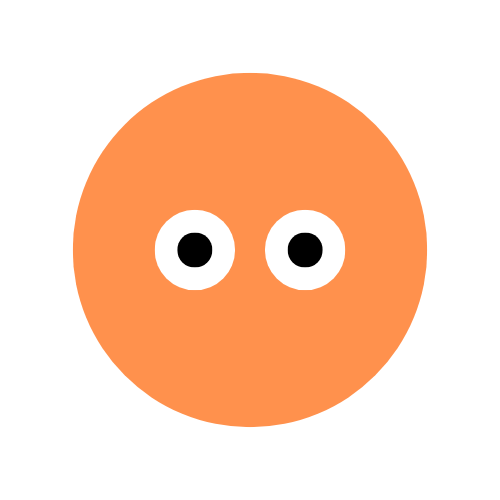
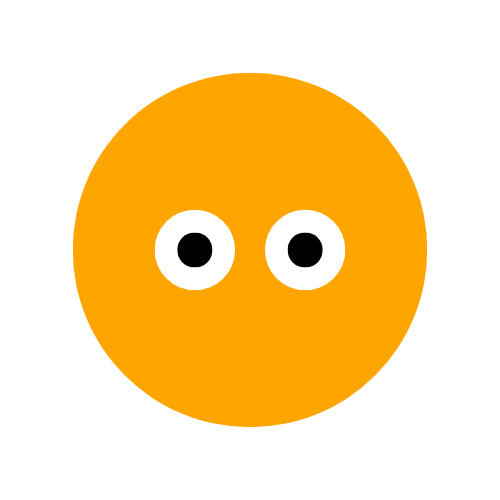
h

diff --git a/app/(app)/profile/[user].jsx b/app/(app)/profile/[user].jsx
@@ -22,16 +22,17 @@ export default function Profile() {
       <Stack.Screen
         options={{
           title: `${local.user}`,
-          headerShadowVisible: false,
+          headerShadowVisible: true,
           headerRight: () => (
             <AnimatedButton
               style={{
-                height: 40,
+                // marginRight: -12,
+                height: 55,
                 width: 40,
                 borderRadius: 10,
                 justifyContent: "center",
                 alignItems: "center",
-                shadowColor: "#000",
+                // backgroundColor: "red",
               }}
               text="Settings"
               onPress={() => {
@@ -49,7 +50,8 @@ export default function Profile() {
             <View style={styles.profileAvatarWrapper}>
               <Image
                 alt=""
-                source={{ uri: "https://picsum.photos/id/664/1920/1080" }}
+                // source={{ uri: "https://picsum.photos/id/664/1920/1080" }}
+                source={require("../../../assets/hi.png")}
                 style={styles.profileAvatar}
               />
             </View>
@@ -70,7 +72,13 @@ export default function Profile() {
             style={styles.row}
           >
             <View style={[styles.rowIcon, { backgroundColor: "#007afe" }]}>
-              <FeatherIcon color="#fff" name="user" size={20} />
+              {/* <FeatherIcon color="#fff" name="user" size={20} /> */}
+              <Image
+                alt=""
+                // source={{ uri: "https://picsum.photos/id/664/1920/1080" }}
+                source={require("../../../assets/2.png")}
+                style={{ height: 50, width: 50 }}
+              />
             </View>
             <Text style={styles.rowLabel}>Username</Text>
             <View style={styles.rowSpacer} />
@@ -83,7 +91,13 @@ export default function Profile() {
             style={styles.row}
           >
             <View style={[styles.rowIcon, { backgroundColor: "#fe9400" }]}>
-              <FeatherIcon color="#fff" name="mail" size={20} />
+              {/* <FeatherIcon color="#fff" name="mail" size={20} /> */}
+              <Image
+                alt=""
+                // source={{ uri: "https://picsum.photos/id/664/1920/1080" }}
+                source={require("../../../assets/hi.png")}
+                style={{ height: 50, width: 50 }}
+              />
             </View>
             <Text style={styles.rowLabel}>Email</Text>
             <View style={styles.rowSpacer} />
@@ -96,7 +110,13 @@ export default function Profile() {
             style={styles.row}
           >
             <View style={[styles.rowIcon, { backgroundColor: "#32c759" }]}>
-              <FeatherIcon color="#fff" name="map-pin" size={20} />
+              {/* <FeatherIcon color="#fff" name="map-pin" size={20} /> */}
+              <Image
+                alt=""
+                // source={{ uri: "https://picsum.photos/id/664/1920/1080" }}
+                source={require("../../../assets/3.png")}
+                style={{ height: 50, width: 50 }}
+              />
             </View>
             <Text style={styles.rowLabel}>Location</Text>
             <View style={styles.rowSpacer} />
@@ -112,7 +132,13 @@ export default function Profile() {
             style={styles.row}
           >
             <View style={[styles.rowIcon, { backgroundColor: "#38C959" }]}>
-              <FeatherIcon color="#fff" name="edit" size={20} />
+              {/* <FeatherIcon color="#fff" name="edit" size={20} /> */}
+              <Image
+                alt=""
+                // source={{ uri: "https://picsum.photos/id/664/1920/1080" }}
+                source={require("../../../assets/5.png")}
+                style={{ height: 50, width: 50 }}
+              />
             </View>
             <Text style={styles.rowLabel}>Edit Profile</Text>
             <View style={styles.rowSpacer} />

diff --git a/app/(app)/settings.jsx b/app/(app)/settings.jsx
@@ -152,14 +152,16 @@ export default function Settings() {
             onPress={() => router.push("/(auth)/signout")}
             style={[
               styles.row,
-              { backgroundColor: "#f2f2f2", marginHorizontal: 8 },
+              { backgroundColor: "#fcd5d2", marginHorizontal: 8 },
             ]}
           >
-            <Text style={[styles.rowLabel, { paddingLeft: 12, color: "#444" }]}>
+            <Text
+              style={[styles.rowLabel, { paddingLeft: 12, color: "#992b23" }]}
+            >
               Signout
             </Text>
             <View style={styles.rowSpacer} />
-            <FeatherIcon color="#C6C6C6" name="chevron-right" size={20} />
+            {/* <FeatherIcon color="#C6C6C6" name="chevron-right" size={20} /> */}
           </AnimatedButton>
         </View>
       </ScrollView>

diff --git a/app/_layout.jsx b/app/_layout.jsx
@@ -1,9 +1,10 @@
 import { Stack } from "expo-router";
 import { UserProvider } from "../contexts/UserContext";
-
+import { StatusBar } from "expo-status-bar";
 export default Layout = () => {
   return (
     <UserProvider>
+      <StatusBar style="auto" />
       <Stack
         screenOptions={{
           headerShown: false,

diff --git a/components/DisplayUsers.jsx b/components/DisplayUsers.jsx
@@ -42,7 +42,7 @@ const DisplayUsers = () => {
       {test.map((item) => (
         <PointAnnotation
           key={item.id}
-          ref={(ref) => (markerRefs.current[item.id] = ref)}
+          // ref={(ref) => (markerRefs.current[item.id] = ref)}
           coordinate={item.coordinates}
         >
           <View style={styles.markerContainer}>

diff --git a/components/TopNav.jsx b/components/TopNav.jsx
@@ -8,7 +8,7 @@ export default TopNav = () => {
       style={{
         position: "absolute",
         zIndex: 2,
-        top: Platform.OS === "ios" ? 65 : 35,
+        top: Platform.OS === "ios" ? 65 : 50,
         right: 20,
         justifyContent: "center",
         alignItems: "center",